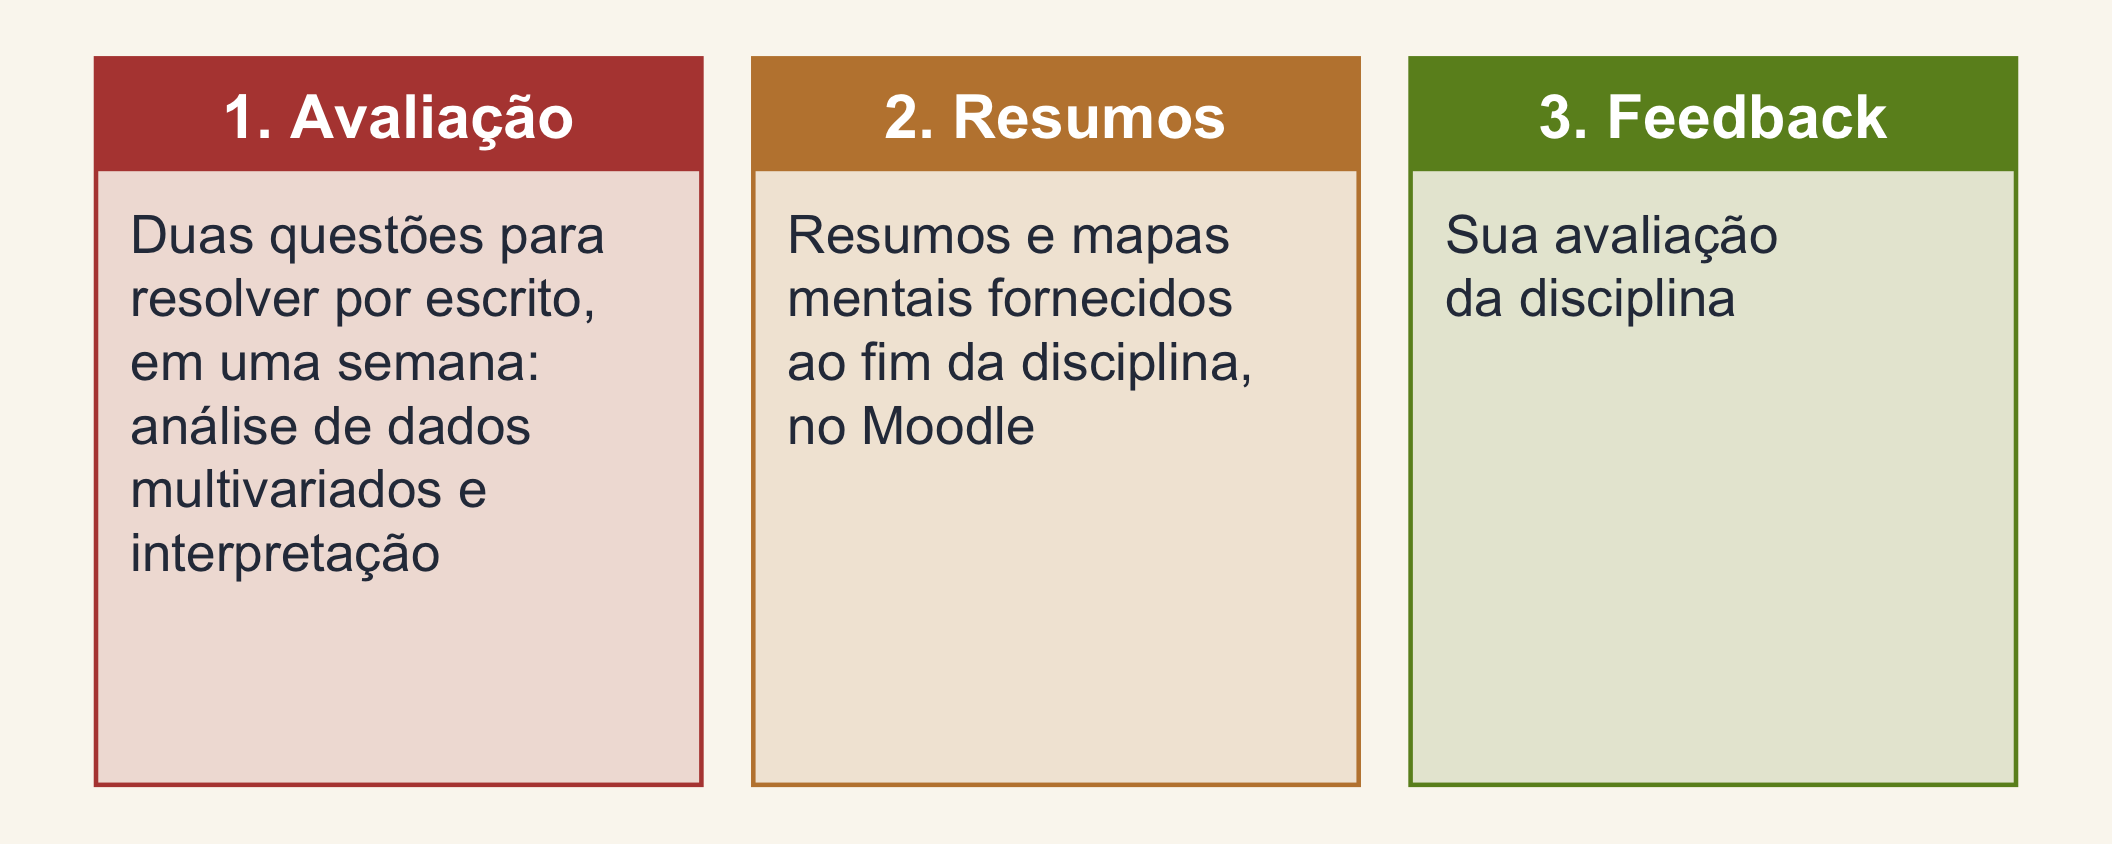
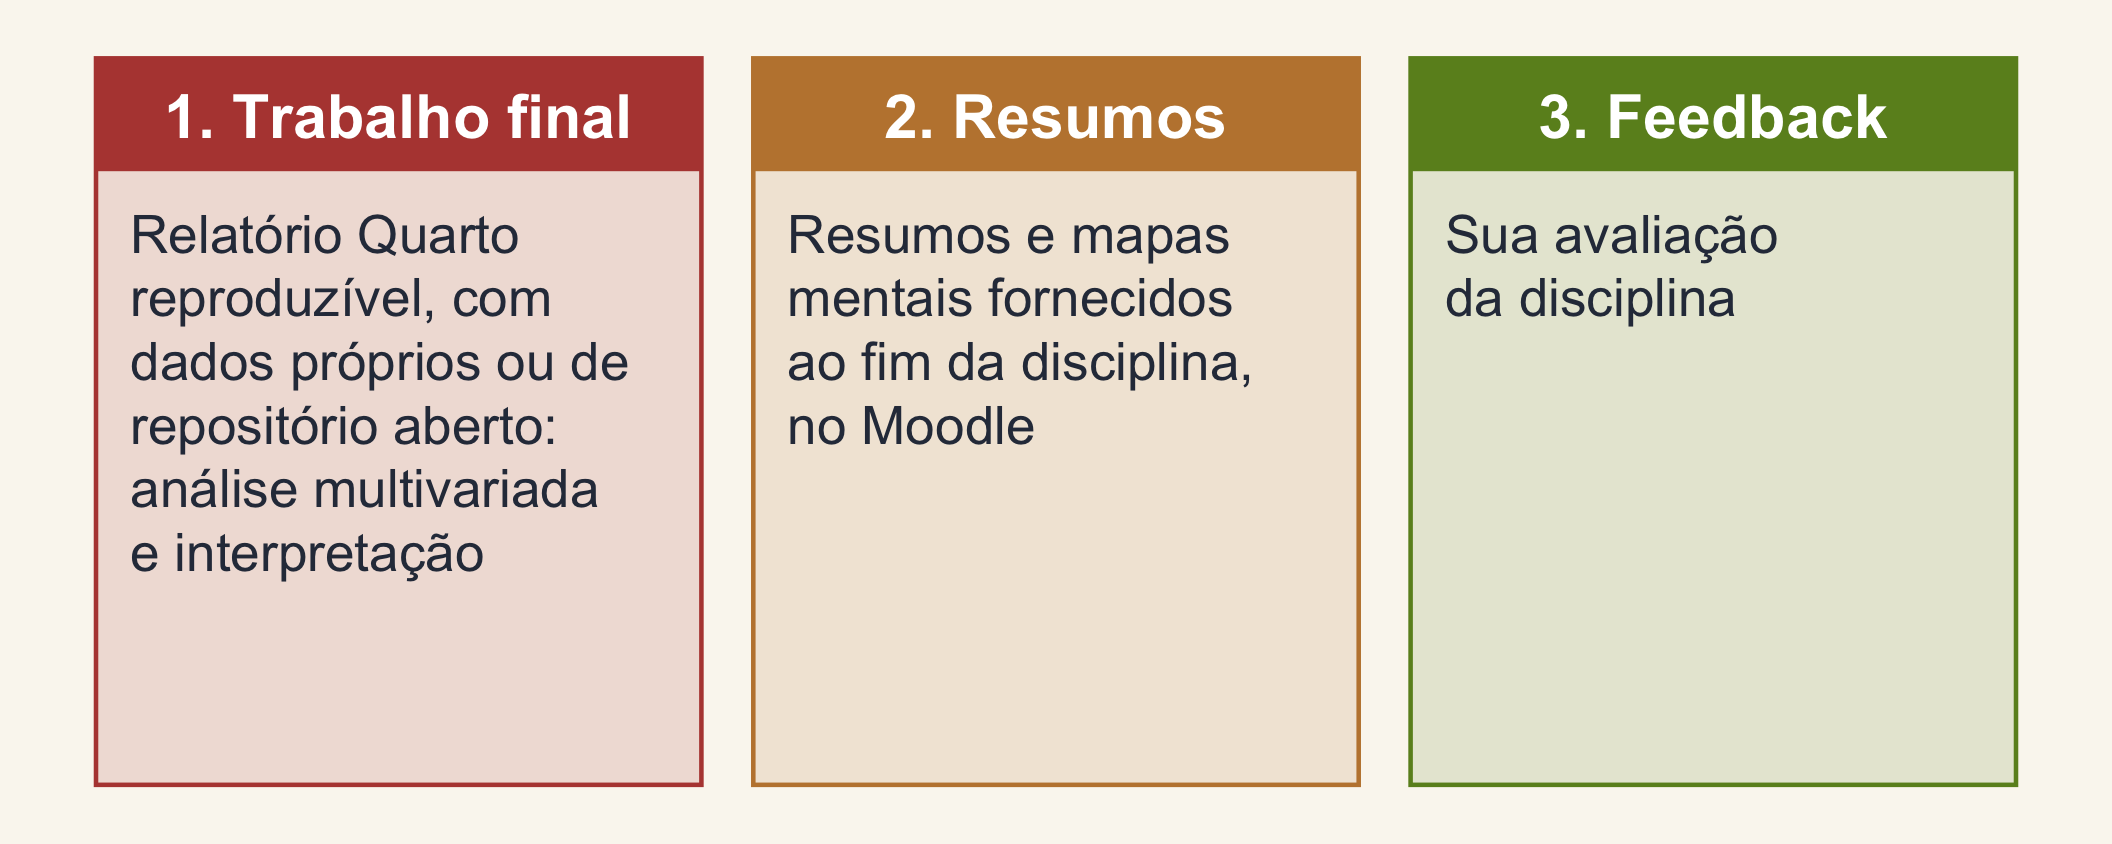
Avaliação: trabalho final (relatório Quarto reproduzível), como na univariada; sem prova

diff --git a/CLAUDE.md b/CLAUDE.md
@@ -77,6 +77,8 @@ aula, na ordem 5 → 3 → 2 → 4 → 6 → 7 → 1, commit só com aprovação
   Os outros `.pptx`/`.ppt` da pasta são versões antigas. Os arquivos ficam
   só na nuvem: baixe com `cat "Aula N.pptx" > /dev/null` em segundo plano (o
   macOS não tem `timeout`). Extraia num diretório próprio do scratchpad.
+- **Avaliação**: um trabalho final (relatório Quarto reproduzível), como na
+  disciplina de univariada; não há prova.
 - **Fio condutor**: o mapa dos métodos (`mapa_plot(destaque = ...)`, em
   `R/mapa.R`), no lugar do ciclo PPDAC. Da matriz de dados saem a
   associação (Aula 2), e dela classificação (3), ordenação irrestrita (4),
